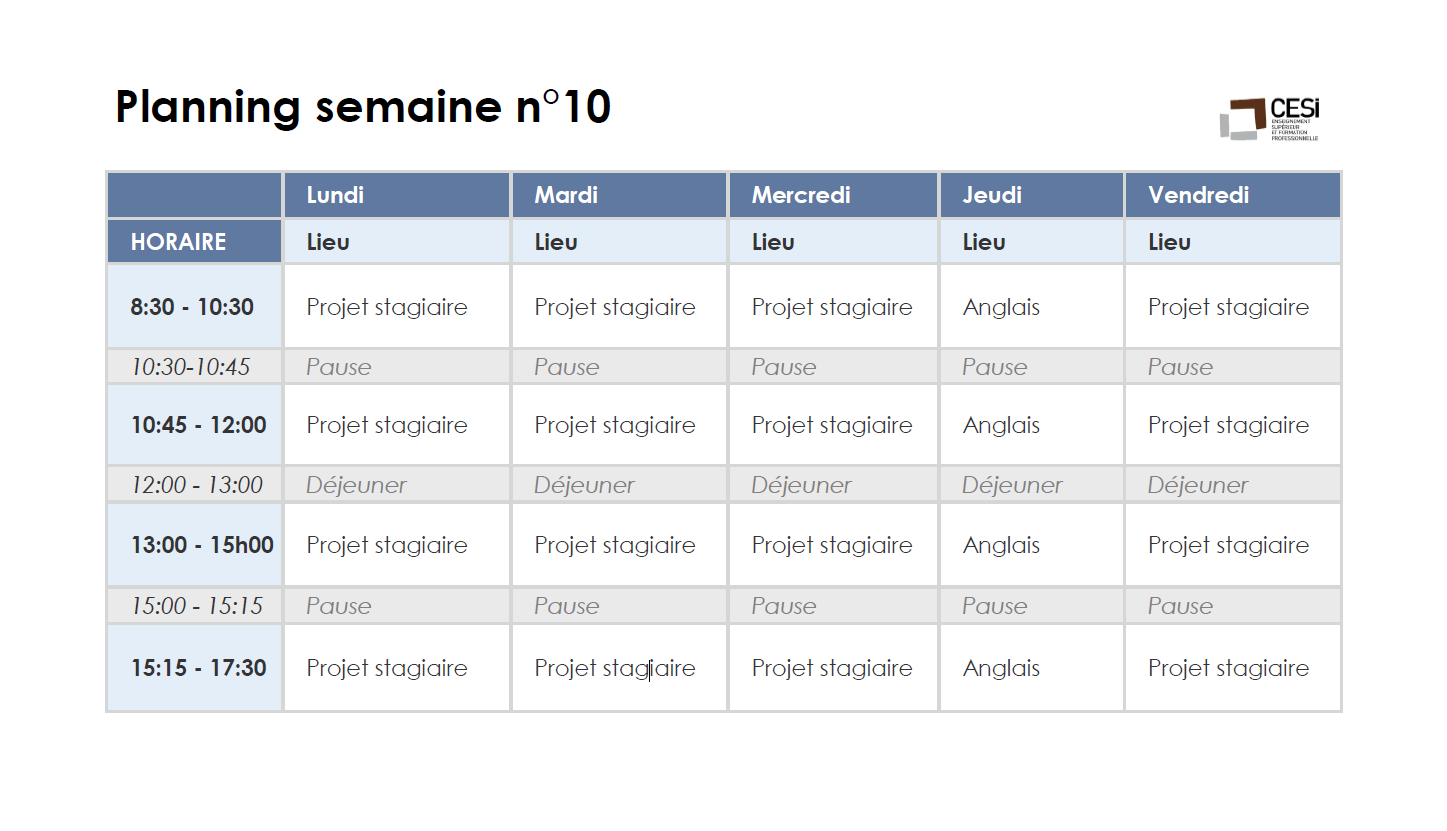
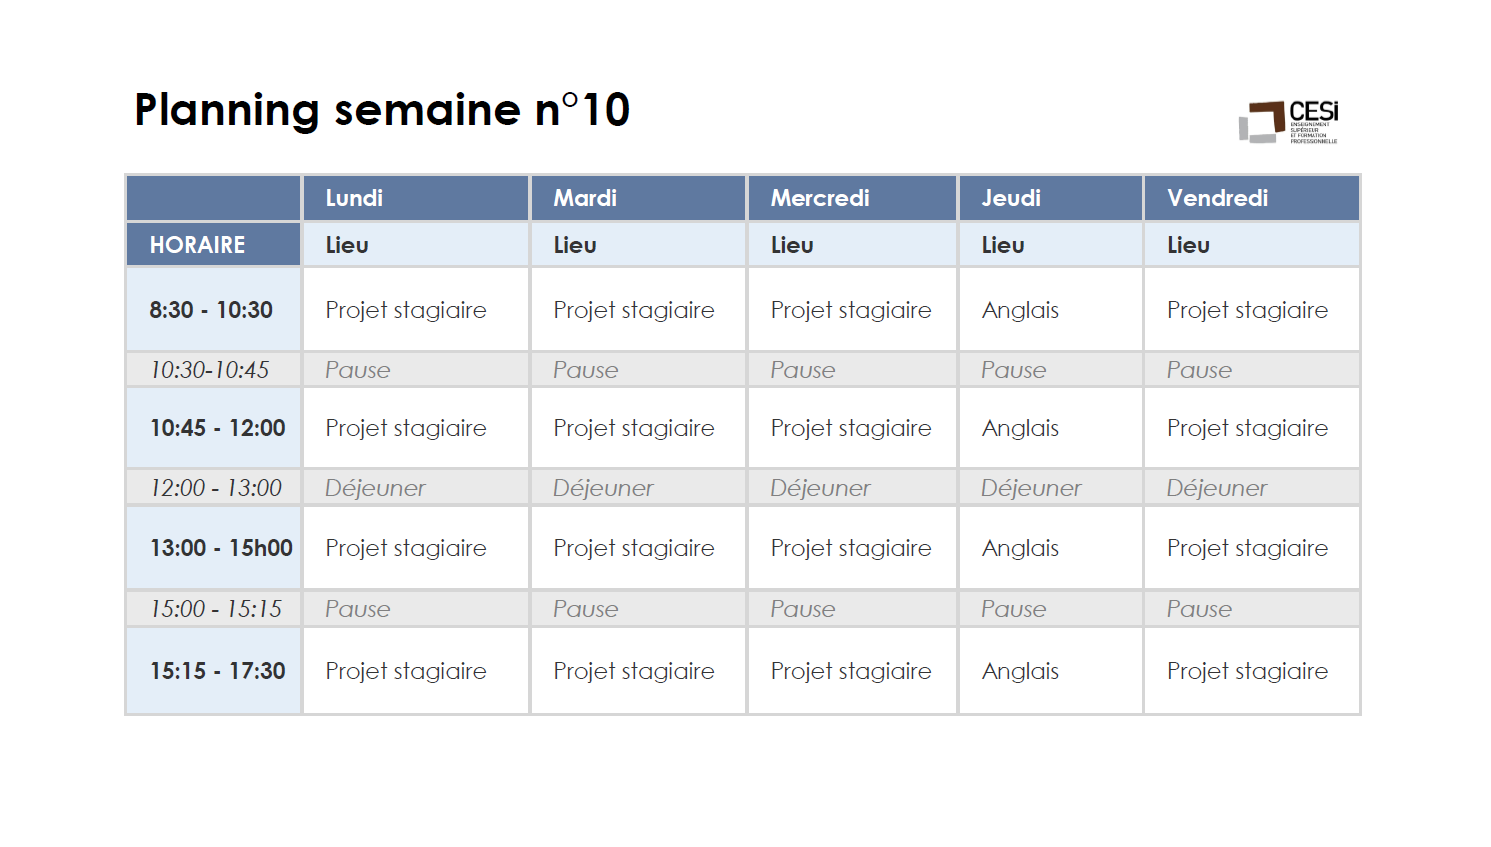
Refactor planning page with flex

Changed region(s): [[0.0622, 0.1805, 0.933, 0.8724], [0.0622, 0.0903, 0.4354, 0.1805], [0.8086, 0.1203, 0.933, 0.1805]]

diff --git a/src/components/Planning.vue b/src/components/Planning.vue
@@ -1,13 +1,33 @@
 <template>
-  <div id="planning" class="planning">
-    <div class="content">
-      <img src="static/img/planning.PNG" />
-    </div>
-    <div class="footer">
-      <evenements></evenements>
-      <logo></logo>
-    </div>
-  </div>
+  <v-app id="app">
+    <v-content>
+      <v-container grid-list-md fluid>
+        <v-layout column wrap>
+          <v-flex>
+            <v-layout row wrap>
+              <v-flex d-flex xs12 lg6 class="padding-5">
+                <div id="planning" class="planning">
+                  <div class="content">
+                    <img src="static/img/planning.PNG" />
+                  </div>
+                </div>
+              </v-flex>
+            </v-layout>
+          </v-flex>
+          <v-flex>
+            <v-layout row wrap>
+              <v-flex d-flex xs12 md10 class="padding-5">
+                <evenements></evenements>
+              </v-flex>
+              <v-flex d-flex xs12 md2 class="padding-5">
+                <logo></logo>
+              </v-flex>
+            </v-layout>
+          </v-flex>
+        </v-layout>
+      </v-container>
+    </v-content>
+  </v-app>
 </template>
 
 <script>
@@ -32,6 +52,6 @@ export default {
 .content{
   width:100%;
   height: 100%;
-  background: #fff;
+  background: black;
 }
 </style>
